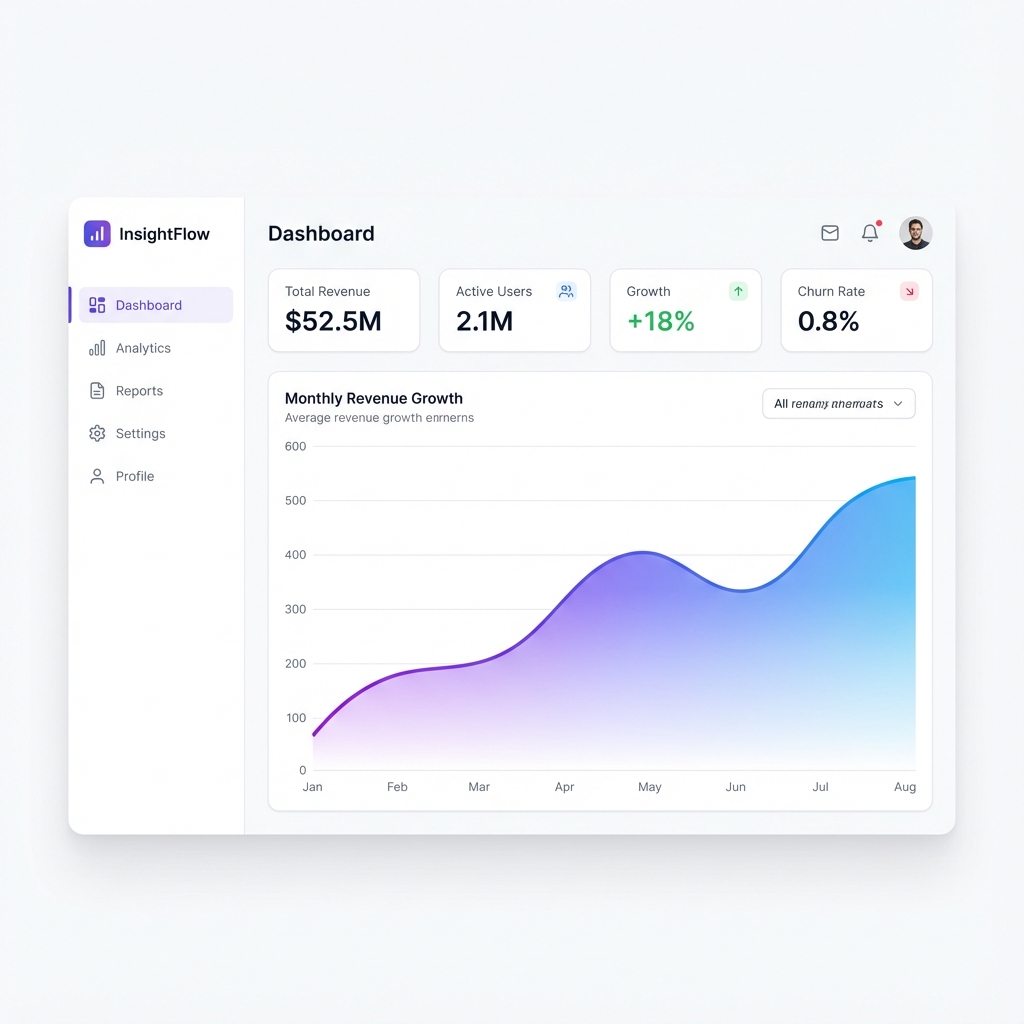
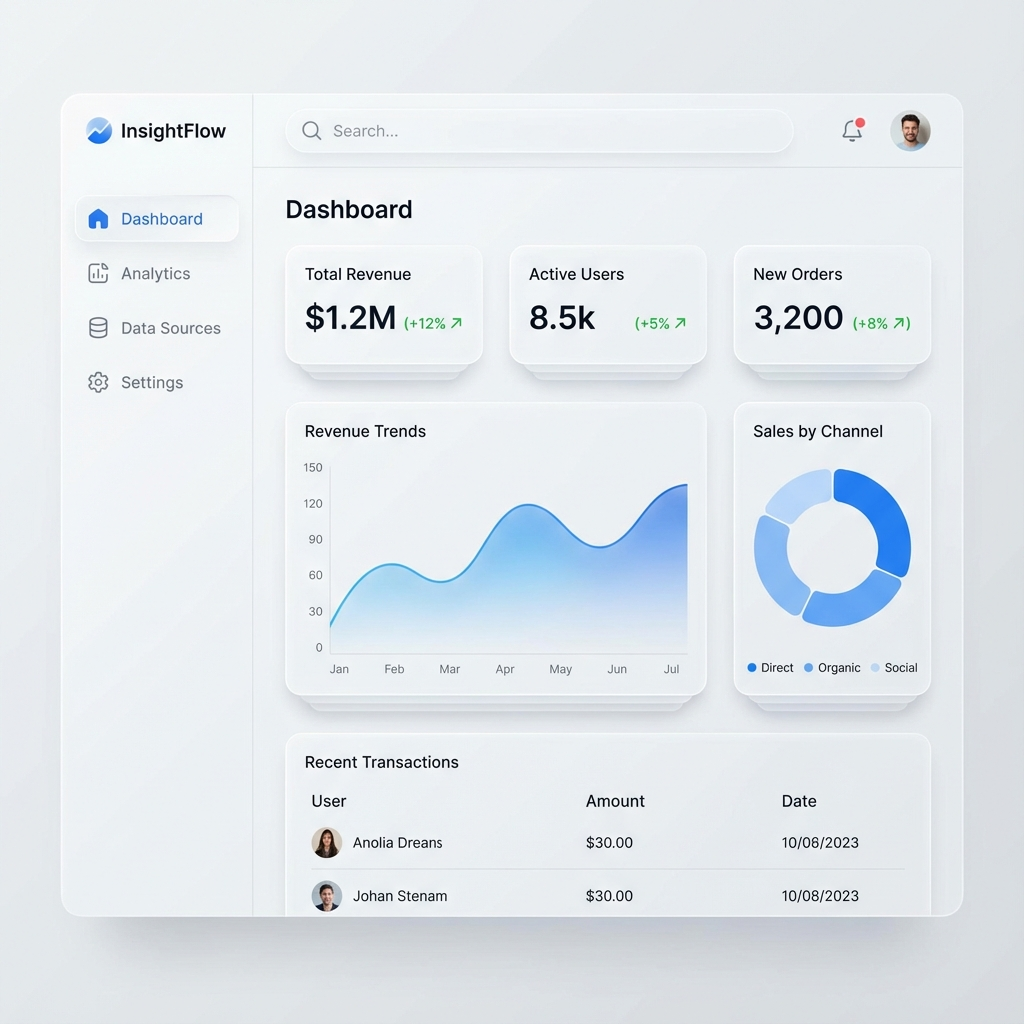
Fix Hero Dashboard Image: Added generated mockup

diff --git a/index.html b/index.html
@@ -156,15 +156,9 @@
                     </div>
                     <!-- Image -->
                     <div class="relative group">
-                        <img src="https://ui.shadcn.com/placeholder.svg" data-src="assets/images/dashboard-mockup.png"
-                            alt="InsightFlow Dashboard" class="w-full h-auto bg-slate-50" id="hero-dashboard-img">
-                        <!-- Fallback/Placeholder Simulation in CSS if image missing -->
-                        <div class="h-[600px] w-full bg-slate-50 flex items-center justify-center text-slate-300">
-                            <div class="animate-pulse flex flex-col items-center">
-                                <i data-lucide="layout-dashboard" size="64" class="mb-4 opacity-50"></i>
-                                <span>Interactive Dashboard Preview Loading...</span>
-                            </div>
-                        </div>
+                        <img src="assets/images/dashboard-mockup.png" alt="InsightFlow Dashboard"
+                            class="w-full h-auto bg-slate-50" id="hero-dashboard-img">
+                        <!-- Fallback removed as image is now generated -->
 
                         <!-- Hover Floating Cards -->
                         <div
